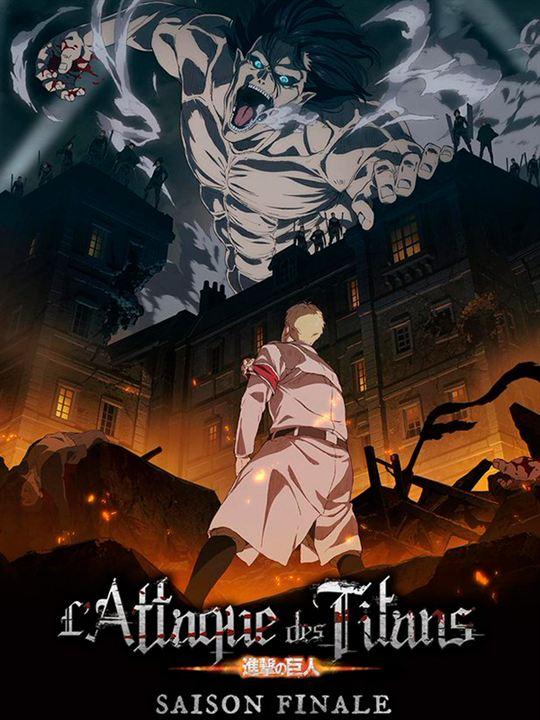
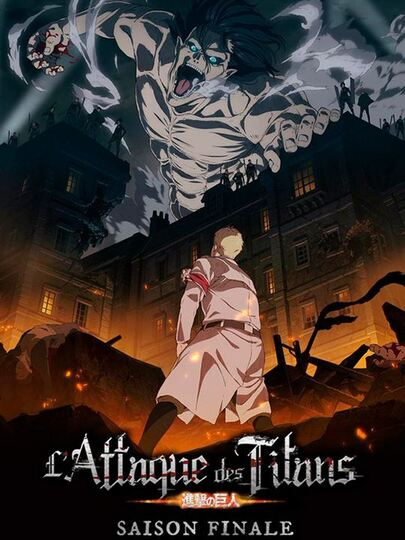
Redimensionnement des images de saison et finalisation de la page saisons avec responsive

diff --git a/rendu_final/saisons.html b/rendu_final/saisons.html
@@ -44,100 +44,90 @@
     </header>
 
     <main>
-        <h2>Les 4 Saisons de L'Attaque des Titans</h2>
-
-        <article>
-
-            <section>
-                <h3>SAISON 1</h3>
-                <br>
-                
-                <p><em>Synopsis </em><br>
-                <strong class="enteteSaison">Attaque des Titans : L'arc et la flèche écarlate</strong></em> - Dans un monde ravagé depuis plu d'un siècle par des titans mangeurs 
-                d'homme, les rares survivants de l'humanité n'ont d'autre choix que de se barricader dans une cité_forteresses...</p>
-                <br> 
-
-                <p><em>Nombre d'épisodes :</em> 25 épisodes</p>
-                
-                <p><em>Sortie en :</em> 2013</p>
-
-                <div>
-                    <img src="img/etoile.PNG.png" alt="Note global">
-                    <h4>4,5/5</h4>
+        <section class="saisons-sec">
+            <article class="saisons-title">
+                <h2>Les 4 Saisons de L'Attaque des Titans</h2>
+            </article>
+            <article>
+                <div class="episode-container">
+                    <h3>SAISON 1</h3>
+                    <div>
+                        <p><em>Synopsis</em></p>
+                        <p>
+                            <strong><em>Attaque des Titans : L'arc et la flèche écarlate</em></strong> - Dans un monde ravagé depuis plu d'un siècle par des titans mangeurs d'homme, les rares survivants de l'humanité n'ont d'autre choix que de se barricader dans une cité_forteresses...
+                        </p>
+                    </div>
+                    <div>
+                        <p><em>Nombre d'épisodes :</em> 25 épisodes</p>
+                        <p><em>Sortie en :</em> 2013</p>
+                    </div>
+                    <div class="note">
+                        <img src="img/etoile.PNG.png" alt="Note globale" title="Note globale">
+                        <h4>4,5/5</h4>
+                    </div>
+                </div>            
+                <img src="img/saison1.jpg" alt="" class="test">
+            </article>
+            <article>
+                <img src="img/saison2.jpg" alt="">
+                <div class="episode-container">
+                    <h3>SAISON 2</h3>
+                    <div>
+                        <p><em>Synopsis</em></p>
+                        <p>
+                            <strong><em>Attaque des Titans : Les ailes de la liberté</em></strong> - L'arrivée du Titan Colossal a complètement bouleversé la vie d'Eren Jäger. Après s'être enrôlé dans l'armée pour le combattre ainsi que ses congénères, Eren découvre qu'il peut se transformer lui-même en ce qu'il exècre le plus...
+                        </p>
+                    </div>
+                    <div>
+                        <p><em>Nombre d'épisodes :</em> 12 épisodes</p>
+                        <p><em>Sortie en :</em> 2017</p>
+                    </div>
+                    <div class="note">
+                        <img src="img/etoile.PNG.png" alt="Note globale" title="Note globale">
+                        <h4>4,5/5</h4>
+                    </div>
                 </div>
-            </section>
-            
-            <img src="img/saison1.jpg" alt="Affiche saison 1" class="saison">
-        </article>
-
-        <article id="saison2">
-
-            <section>
-                <h3>SAISON 2</h3>
-                <br>
-
-                <p><em>Synopsis <br>
-                <strong class="enteteSaison">Attaque des Titans : Les ailes de la liberté</strong></em> - L'arrivée du Titan Colossal a complètement bouleversé la vie d'Eren Jäger. 
-                Après s'être enrôlé dans l'armée pour le combattre ainsi que ses congénères, Eren découvre qu'il peut se transformer lui-même en ce qu'il exècre le plus...</p>
-                <br>
-                <p><em>Nombre d'épisodes :</em> 12 épisodes</p>
-        
-                <p><em>Sortie en :</em> 2017</p>
-
-                <div>
-                    <img src="img/etoile.PNG.png" alt="Note global">
-                    <h4>4,5/5</h4>
-                </div>
-            </section>
-            
-            <img src="img/saison2.jpg" alt="Affiche saison 2" class="saison">
-        </article>
-
-        <article>
-
-            <section>
-                <h3>SAISON 3</h3>
-                <br>
-
-                <p><em>Synopsis <br>
-                <strong class="enteteSaison">Attaque des Titans : Le rugissement de l'éveil</strong></em> - Kidnappé par Bertholdt et Reiner, Eren a pu s'échapper grâce à l'aide du bataillon d'exploration.
-                Mais les pertes sont lourdes, et ce d'autant plus qu'Ymir a décidé de rejoindre l'ennemi...</p>
-                <br>
-                <p><em>Nombre d'épisodes :</em> 12 épisodes (partie 1) et 22 épisodes (partie 2)</p>
-        
-                <p><em>Sortie en :</em> 2018 (partie 1) et 2019 (partie2)</p>
-        
-                <div>
-                    <img src="img/etoile.PNG.png" alt="Note global">
-                    <h4>4,6/5</h4>
-                </div>
-            </section>
-            
-            <img src="img/saison3.jpg" alt="Affiche saison 3" class="saison">
-        </article>
-
-        <article id="saison4">
-
-            <section>
-                <h3>SAISON 4</h3>
-                <br>
-
-                <p><em>Synopsis </em><br>
-                Quatre ans après son départ de Paradis, Reiner s'impose en soldat d'élite aux côtés des futures réceptacles des titans promordiaux.
-                Mais son passé le hante toujours et la menace d'une vengeance de la part d'Eren et de ses camarades plane.</p>
-                <br>
-                <p><em>Nombre d'épisodes :</em> 16 épisodes (partie 1), 12 épisodes (partie 2) et 2 épisodes (partie 3)</p>
-
-                <p><em>Sortie en :</em> 2020 (partie 1), 2022 (partie 2) et 2023 (partie 3)</p>
-
-                <div>
-                    <img src="img/etoile.PNG.png" alt="Note global">
-                    <h4>4,5/5</h4>
-                </div>
-            </section>
-
-            <img src="img/saison4.jpg" alt="Affiche saison 4" class="saison">
-        </article>
+            </article>
+            <article>
+                <div class="episode-container">
+                    <h3>SAISON 3</h3>            
+                    <div>
+                        <p><em>Synopsis</em></p>
+                        <p>
+                            <strong><em>Attaque des Titans : Le rugissement de l'éveil</em></strong> - Kidnappé par Bertholdt et Reiner, Eren a pu s'échapper grâce à l'aide du bataillon d'exploration. Mais les pertes sont lourdes, et ce d'autant plus qu'Ymir a décidé de rejoindre l'ennemi...
+                        </p>
+                    </div>
+                    <div>
+                        <p><em>Nombre d'épisodes :</em> 12 épisodes (partie 1) et 22 épisodes (partie 2)</p>
+                        <p><em>Sortie en :</em> 2018 (partie 1) et 2019 (partie2)</p>
+                    </div>
+                    <div class="note">
+                        <img src="img/etoile.PNG.png" alt="Note globale" title="Note globale">
+                        <h4>4,6/5</h4>
+                    </div>
+                </div>            
+                <img src="img/saison3.jpg" alt="">
+            </article>
+            <article>
+                <img src="img/saison4.jpg" alt="">
+                <div class="episode-container">
+                    <h3>SAISON 4</h3>
+                    <div>
+                        <p><em>Synopsis</em></p>
+                        <p>
+                            Quatre ans après son départ de Paradis, Reiner s'impose en soldat d'élite aux côtés des futures réceptacles des titans promordiaux. Mais son passé le hante toujours et la menace d'une vengeance de la part d'Eren et de ses camarades plane.
+                        </p>
+                    </div>
+                    <div>
+                        <p><em>Nombre d'épisodes :</em> 16 épisodes (partie 1), 12 épisodes (partie 2) et 2 épisodes (partie 3)</p>
+                        <p><em>Sortie en :</em> 2020 (partie 1), 2022 (partie 2) et 2023 (partie 3)</p>
+                    </div>
+                    <div class="note">
+                        <img src="img/etoile.PNG.png" alt="Note globale" title="Note globale">
+                        <h4>4,5/5</h4>
+                    </div>
+            </article>
+        </section>
     </main>
 
     <footer>
@@ -166,7 +156,5 @@
 
         <p>Site développé par des étudiants de l'IUT de Lannion - SAE 1.05 WEB - 2023</p>
     </footer>
-    
 </body>
-
 </html>

diff --git a/rendu_final/style.css b/rendu_final/style.css
@@ -391,84 +391,80 @@ header nav span {
 
 /* SAISONS */
 
-h2,
-article{
-  background-color: #B3ADD9;
+.saisons-sec {
+  display: flex;
+  flex-direction: column;
+  gap: 30px;
+}
+.saisons-sec article {
+  display: flex;
+  justify-content: center;
+  align-items: center;
+  gap: 30px;
+  background-color: var(--light-purple);
   border-radius: 50px;
+  padding: 30px;
+}
+.saisons-sec article > img {
+  max-width: 500px;
+  border-radius: 20px;
 }
 
-h2{
-  font-size: 2.5rem;
+.saisons-title h2 {
+  font-family: var(--title-font);
+  font-size: 3rem;
+  text-shadow: 0 4px 4px #00000040;
+  text-align: center;
 }
 
-h3{
-  font-size: 2rem;
+.episode-container {
+  display: flex;
+  justify-content: center;
+  flex-direction: column;
+  gap: 30px;
 }
-
-h4{
+.episode-container h3 {
+  font-family: var(--title-font);
+  font-size: 2.75rem;
+  text-align: center;
+  text-shadow: 0 4px 4px #00000040;
+  margin-bottom: 30px;
+}
+.episode-container p {
   font-size: 1.5rem;
 }
 
-.saison{
-  border-radius: 20px;
-  width: 330px;
-  height: 530px;
-}
-
-article{
-  padding: 20px 30px;
-  margin: 10px;
-  display: flex;
-}
-
-h2{
-  text-align: center;
-  padding: 20px 50px;
-}
-
-div{
+.note {
   display: flex;
   align-items: center;
+  gap: 30px;
+}
+.note img {
+  max-width: 250px;
+}
+.note h4 {
+  font-family: var(--title-font);
+  font-size: 2.25rem;
 }
 
-div img {
-  width: 168px;
-  height: 30px;
-}
-
-#saison2,
-#saison4 {
-  flex-direction: row-reverse;
-}
-
-section {
-  margin: 0 5px 0 20px;
-}
-
-section h3 {
-  text-align: center;
-}
-
-h2, h3, h4{
-  font-family: 'Abril Fatface', serif;
-}
-
-@media screen and (max-width: 480px) {
-
-  #saison2, #saison4 {
-      flex-direction: column-reverse;
+@media screen and (max-width: 1400px) {
+  .saisons-sec article {
+    flex-direction: column;
   }
-
-  article{
-      display: flex;
-      flex-direction: column-reverse;
+  .saisons-sec article > img {
+    order: 1;
   }
-
+  .episode-container {
+    order: 2;
+  }
+  .saisons-title h2 {
+    font-size: 2.5rem;
+  }
 }
 
 /* BACKSTAGE */
 
-h2{
+/* h2{
   max-width: 1185px;
   padding: 0px 281px;
   border-radius: 50px;
@@ -589,7 +585,7 @@ div >div >img {
 }
 .inspiration img{
   border-radius: 20px;
-}
+} */
 
 /*Footer*/
 
@@ -602,12 +598,11 @@ footer li {
   padding-left: 1.5em;
 }
 
-
 footer {
   background-color: #323142;
-  margin-top : 1.5em;
+  margin-top: 1.5em;
   justify-content: center;
-  color: #D9D9D9;
+  color: #d9d9d9;
   display: flex;
   flex-direction: column;
   align-items: center;

diff --git a/rendu_final/accueil.html b/rendu_final/accueil.html
@@ -1,4 +1,4 @@
-!DOCTYPE html>
+<!DOCTYPE html>
 <html lang="fr">
 
 <head>
